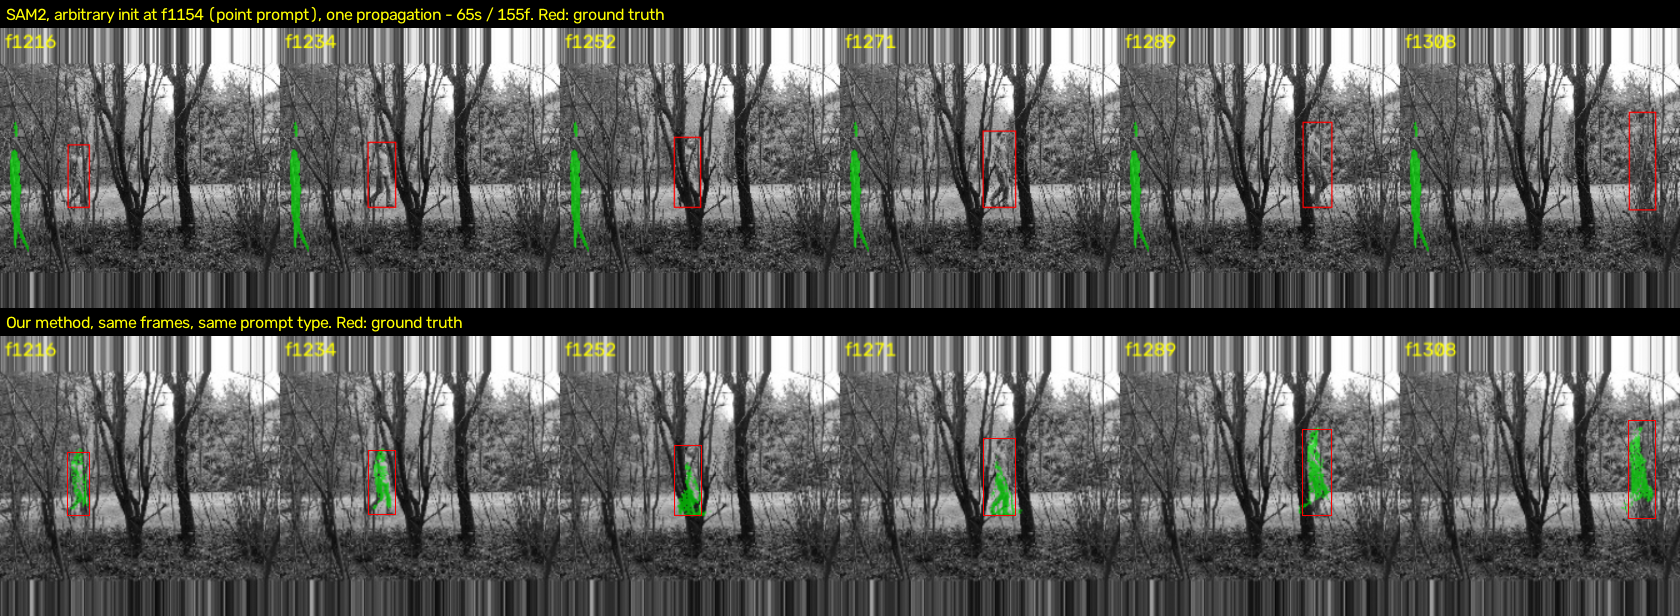
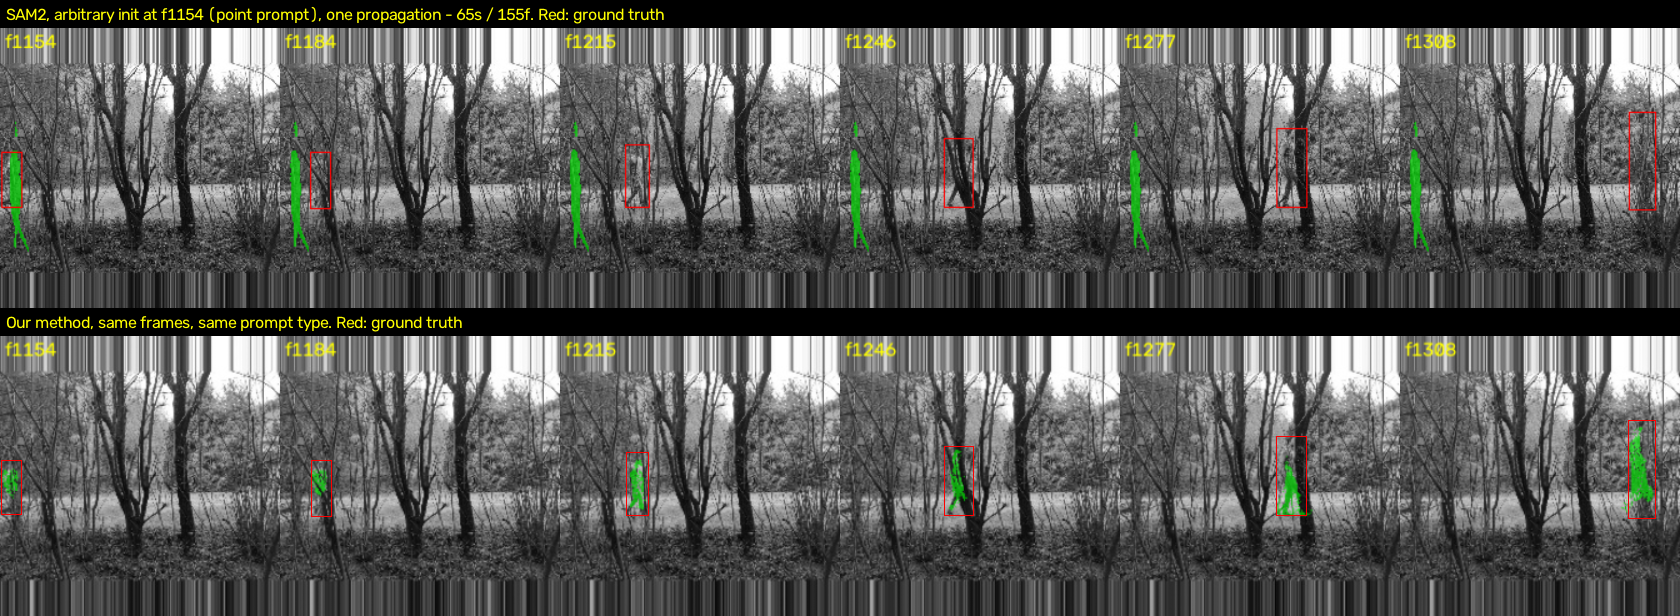
Bad-init figure now samples from its own true seed frame (f1154), not the good-init figure's
The bad-init comparison was reusing the GOOD-init figure's frame set (starting at f1216), which
is NOT where the bad-init SAM2 run was actually seeded (f1154) - a viewer never saw the starting
point, only the mask after it had already drifted. Less confusing to start where SAM2 actually
started.

FRAMES_GOOD/WINDOWS_GOOD (unchanged, f1216 already is that condition's true init frame) and new
FRAMES_BAD/WINDOWS_BAD (f1154 onward, same np.linspace(0,T-1,6) convention as the original
sam2_drift_check.py bad-init montage, now over the full 155-frame run: 155 = 31x5, five of our
windows tile it exactly). sam2_row/our_row take sample_frames/windows as parameters now instead
of reading module-level constants, so each figure can use its own.

Cache from the previous commit meant this cost zero GPU re-compute - both propagations were
already measured and stored, only the sampling/rendering changed.

RESULT: both rows now visibly agree at f1154 (mask on the true box, since that's where SAM2 was
prompted) and diverge from there - SAM2's mask stays behind near the start position while ours
tracks the person across all six sampled frames. The "both start right, only one stays right"
story is now directly visible instead of implied.

diff --git a/tracking/eval/segmentation_comparison.py b/tracking/eval/segmentation_comparison.py
@@ -41,9 +41,19 @@ from tracking.eval.sam2_drift_check import FRAMES_DIR, gt_box_px
 
 SEQ = 'seq1_gt'
 RUN_INDEX = 4
-FRAMES = (1216, 1234, 1252, 1271, 1289, 1308)          # shared across every row in both figures
-WINDOWS = ((1216, 1246), (1247, 1277), (1278, 1308))   # 93 = 31x3: tiles the SAME span SAM2 covers
 TILE = 280
+
+# GOOD-INIT figure: SAM2 is prompted at the confirmed-clear checkpoint f1216, so both rows sample
+# starting there too - f1216 IS the true init frame for this condition already.
+FRAMES_GOOD = (1216, 1234, 1252, 1271, 1289, 1308)
+WINDOWS_GOOD = ((1216, 1246), (1247, 1277), (1278, 1308))          # 93 = 31x3
+
+# BAD-INIT figure: SAM2 is prompted at the run's own first frame f1154 - sampling must start
+# there too, or a viewer never sees where it was actually seeded, only after it has already
+# drifted. Same np.linspace(0, T-1, 6) convention as sam2_drift_check.py's original bad-init
+# montage, over the FULL 155-frame run this time (not just the post-checkpoint remainder).
+FRAMES_BAD = (1154, 1184, 1215, 1246, 1277, 1308)
+WINDOWS_BAD = ((1154, 1184), (1185, 1215), (1216, 1246), (1247, 1277), (1278, 1308))  # 155 = 31x5
 
 
 def run_propagation_point(video_predictor, frames_dir, T, H, W, gt, f0, local_idx):
@@ -73,9 +83,9 @@ def label_bar(width, text):
     return bar
 
 
-def sam2_row(pred, frames, abs_idx, gt, W, H, with_box):
+def sam2_row(pred, frames, abs_idx, gt, W, H, with_box, sample_frames):
     tiles = []
-    for f in FRAMES:
+    for f in sample_frames:
         t = f - abs_idx[0]
         ov = cv2.cvtColor(frames[f], cv2.COLOR_GRAY2BGR)
         m = pred[t]
@@ -87,7 +97,7 @@ def sam2_row(pred, frames, abs_idx, gt, W, H, with_box):
     return np.hstack(tiles)
 
 
-def our_row(frames, gt, H, W, with_box):
+def our_row(frames, gt, H, W, with_box, sample_frames, windows):
     """Reuses gt_sam_gate.py's render_row unchanged; only adds the GT box on top when asked,
     since render_row itself never draws one.
 
@@ -98,16 +108,15 @@ def our_row(frames, gt, H, W, with_box):
     separate rescale needed. Passing native (W, H) here (the first version's bug) drew the box at
     224-pixel scale on a 280-pixel canvas - too small and shifted toward the corner."""
     tiles = []
-    for window in WINDOWS:
+    for window in windows:
         abs_idx = list(range(window[0], window[1] + 1))
         winner, _ = build_gt_winner(gt, window, W, H)
+        frames_in_window = [f for f in sample_frames if window[0] <= f <= window[1]]
         row = render_row(winner, frames[abs_idx], abs_idx, frames, H, W, crop_mult=4.5,
-                         samples=0, label='', abs_frames=[f for f in FRAMES if window[0] <= f <= window[1]])
+                         samples=0, label='', abs_frames=frames_in_window)
         strip = row[:, 260:]                          # drop render_row's own reference-image tile
-        n = sum(window[0] <= f <= window[1] for f in FRAMES)
-        strip = cv2.resize(strip, (TILE * n, TILE))
+        strip = cv2.resize(strip, (TILE * len(frames_in_window), TILE))
         if with_box:
-            frames_in_window = [f for f in FRAMES if window[0] <= f <= window[1]]
             for i, f in enumerate(frames_in_window):
                 tile = strip[:, i * TILE:(i + 1) * TILE]
                 draw_gt_box(tile, gt, f, TILE, TILE)
@@ -172,35 +181,44 @@ def main():
           f'({1000 * t_good / n_good_frames:.0f} ms/frame)')
 
     t0 = time.perf_counter()
-    ours_row_no_box = our_row(frames, gt, H, W, with_box=False)
+    ours_good_no_box = our_row(frames, gt, H, W, with_box=False,
+                               sample_frames=FRAMES_GOOD, windows=WINDOWS_GOOD)
     t_ours = time.perf_counter() - t0
-    n_our_calls = len(WINDOWS)
+    n_our_calls = len(WINDOWS_GOOD)
     print(f'Our method:     {t_ours:.1f}s total for {n_our_calls} SAM2 calls covering '
           f'{n_good_frames} frames  ({1000 * t_ours / n_our_calls:.0f} ms/call)')
     speedup = t_good / t_ours
     print(f'speedup over the SAME span vs SAM2 good-init: {speedup:.1f}x')
 
-    # --- figure 1: GOOD-INIT, mask-only both rows, apples-to-apples ---
-    sam2_good_tiles = sam2_row(pred_good, frames, list(range(run[0], run[1] + 1)), gt, W, H, with_box=False)
+    all_idx = list(range(run[0], run[1] + 1))
+
+    # --- figure 1: GOOD-INIT, mask-only both rows, apples-to-apples. Sampling starts at f1216,
+    # which IS the true prompt frame for this condition - no change needed here. ---
+    sam2_good_tiles = sam2_row(pred_good, frames, all_idx, gt, W, H, with_box=False,
+                               sample_frames=FRAMES_GOOD)
     fig1 = np.vstack([
         label_bar(sam2_good_tiles.shape[1],
                  f'SAM2, confirmed-clear init (point prompt), one propagation - {t_good:.0f}s / {n_good_frames}f'),
         sam2_good_tiles,
-        label_bar(ours_row_no_box.shape[1],
+        label_bar(ours_good_no_box.shape[1],
                  f'Our method, {n_our_calls} independent windows (point prompt) - {t_ours:.1f}s / {n_our_calls} calls'),
-        ours_row_no_box,
+        ours_good_no_box,
     ])
     cv2.imwrite('images/stream/seq1_gt_segmentation_comparison_goodinit.png', fig1)
 
-    # --- figure 2: BAD-INIT, GT box on both rows ---
-    sam2_bad_tiles = sam2_row(pred_bad, frames, list(range(run[0], run[1] + 1)), gt, W, H, with_box=True)
-    ours_row_box = our_row(frames, gt, H, W, with_box=True)
+    # --- figure 2: BAD-INIT, GT box on both rows, sampling starts at f1154 - the run's own first
+    # frame, where SAM2 was actually seeded - so a viewer sees the true starting point instead of
+    # jumping in after the mask has already drifted. ---
+    sam2_bad_tiles = sam2_row(pred_bad, frames, all_idx, gt, W, H, with_box=True,
+                              sample_frames=FRAMES_BAD)
+    ours_bad_box = our_row(frames, gt, H, W, with_box=True,
+                           sample_frames=FRAMES_BAD, windows=WINDOWS_BAD)
     fig2 = np.vstack([
         label_bar(sam2_bad_tiles.shape[1],
                  f'SAM2, arbitrary init at f{run[0]} (point prompt), one propagation - {t_bad:.0f}s / {T}f. Red: ground truth'),
         sam2_bad_tiles,
-        label_bar(ours_row_box.shape[1], 'Our method, same frames, same prompt type. Red: ground truth'),
-        ours_row_box,
+        label_bar(ours_bad_box.shape[1], 'Our method, same frames, same prompt type. Red: ground truth'),
+        ours_bad_box,
     ])
     cv2.imwrite('images/stream/seq1_gt_segmentation_comparison_badinit.png', fig2)
 
